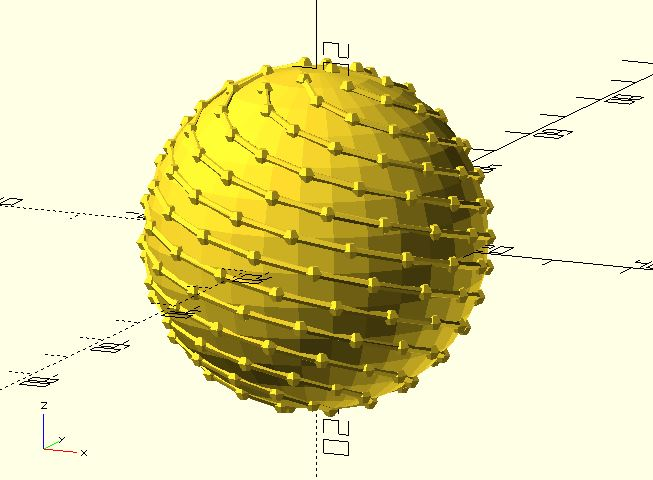
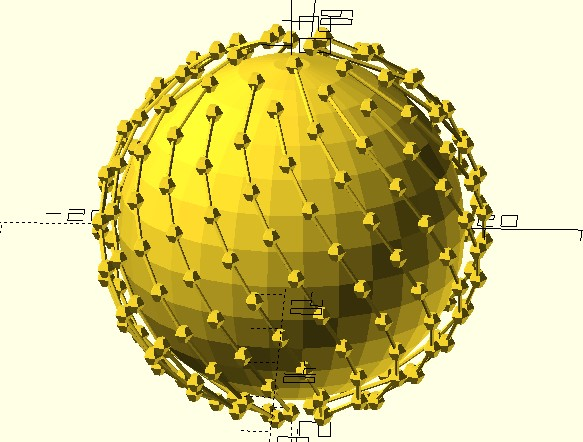
update doc

diff --git a/docs/lib3x-fibonacci_lattice.md b/docs/lib3x-fibonacci_lattice.md
@@ -1,6 +1,6 @@
 # fibonacci_lattice
 
-Creates visually even spacing of n points on the surface of the sphere. Nearest-neighbor points will all be approximately the same distance apart. There're 8 spirals on the sphere.
+Creates visually even spacing of n points on the surface of the sphere. Nearest-neighbor points will all be approximately the same distance apart. There're max 21 spirals on the sphere.
 
 (It's called "visually even spacing" because only the vertices of the 5 [Platonic solids](https://en.wikipedia.org/wiki/Platonic_solid) can be said to be truly evenly spaced around the surface of a sphere.)
 
@@ -30,9 +30,6 @@ Creates visually even spacing of n points on the surface of the sphere. Nearest-
 
 ![fibonacci_lattice](images/lib3x-fibonacci_lattice-1.JPG)
 
-    use <fibonacci_lattice.scad>
-    use <polyline_join.scad>
-
     n = 200;
     radius = 20;
     pts = fibonacci_lattice(n, radius);
@@ -41,16 +38,17 @@ Creates visually even spacing of n points on the surface of the sphere. Nearest-
         translate(p)
             sphere(1);
     }
-        
-    sphere(radius);
 
-    spirals = [for(j = [0:7]) 
-        [for(i = j; i < len(pts); i = i + 8) pts[i]]
+    sphere(radius * 0.9);
+
+    spirals = [for(j = [0:20]) 
+        [for(i = j; i < len(pts); i = i + 21) pts[i]]
     ];
+
 
     for(spiral = spirals) {
         polyline_join(spiral)
-		    sphere(.5);	
+            sphere(.25); 
     }
         
 ![fibonacci_lattice](images/lib3x-fibonacci_lattice-2.JPG)
